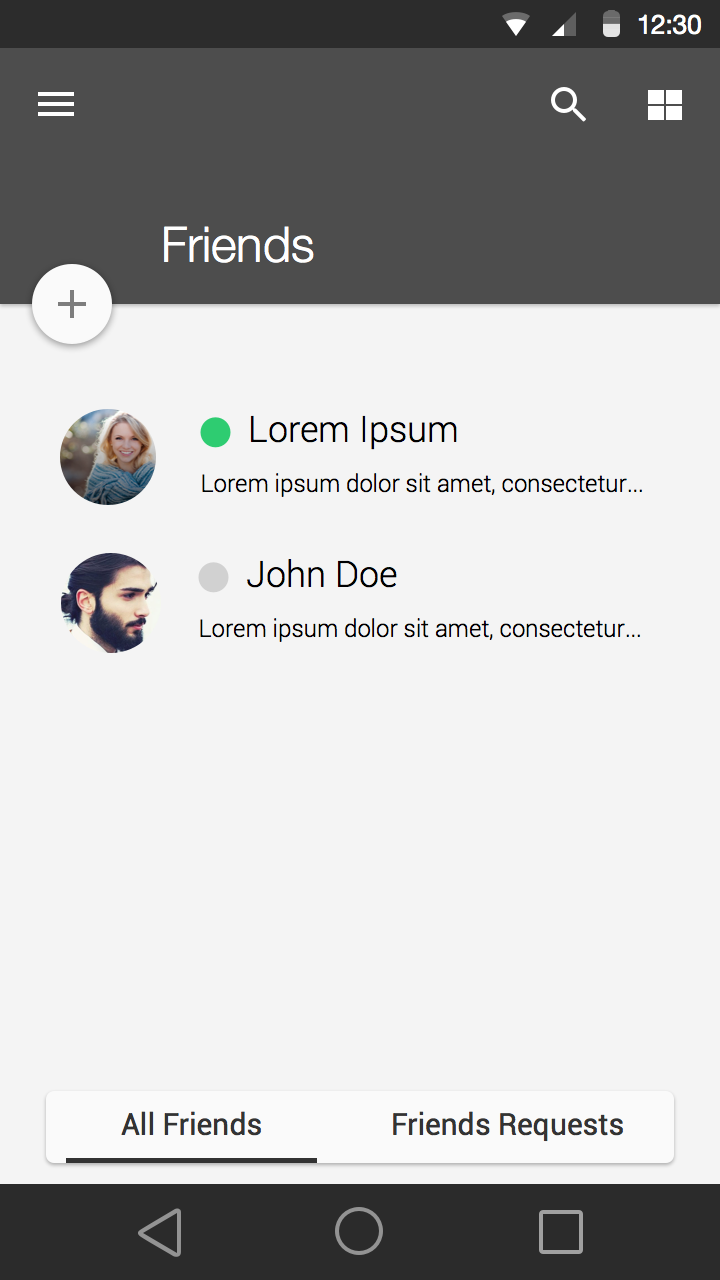
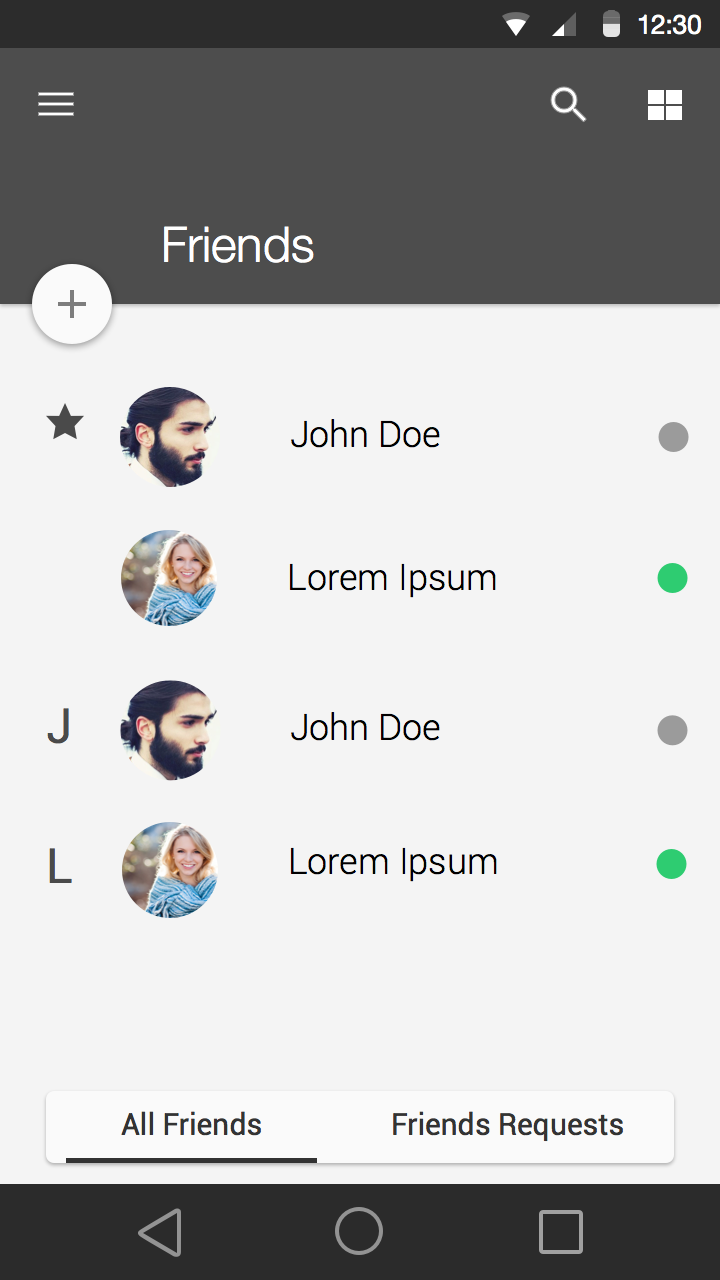
Replaced the friends painel and added more painels

diff --git a/doc/storyboard/indexSwipeRight.html b/doc/storyboard/indexSwipeRight.html
@@ -10,19 +10,18 @@
 			<center>
 				<div>
 					<div id="center">
-						<img id="centerIMG"src="img/Group_messaging_Settings.png">
-						<a href="index.html"><div class="highlight" style="position:absolute;top: 669px;left: 74px;width: 30px;height: 30px;"></div></a>
-						<a href="index.html"><div class="highlight" style="position:absolute;top: 40px;left: 17px;width: 30px;height: 30px;"></div></a>
-						<a href="GroupMessageSettingsPrompt.html"><div class="highlight" style="position:absolute;top: 75px;left: 247px;width: 100px;height: 30px;"></div></a>
+						<img id="centerIMG"src="img/Inbox Swipe Right.png">
+						<a href="indexDrawer.html"><div class="highlight" style="position:absolute;top: 40px;left: 17px;width: 30px;height: 30px;"></div></a>
+						<a href="Message.html"><div class="highlight" style="position:absolute;top: 176px;left: 0px;width: 400px;height: 80px;"></div></a>
+						<a href="indexSettings.html"><div class="highlight" style="position:absolute;top: 40px;left: 358px;width: 30px;height: 30px;"></div></a>
+						<a href="newMessage.html"><div class="highlight" style="position:absolute;top: 573px;left: 317px;width: 66px;height: 68px;"></div></a>
 
 					</div>
 					<div id="text"><h1>Tox Android Application Mockup</h1></div>
-					<a href="MessageWritting.html" style="color:blue;">Friend Writting!</a>
+					<a href="Call.html" style="color:blue;">Get a Call!</a>
 					<input id="checkbox" type="checkbox"  checked>Highlight Touch Spots<br>
-
 				</div>
 			</center>
-			
 		</div>
 	</body>
 	<script type="text/javascript">

diff --git a/doc/storyboard/indexSwipeLeft.html b/doc/storyboard/indexSwipeLeft.html
@@ -10,19 +10,18 @@
 			<center>
 				<div>
 					<div id="center">
-						<img id="centerIMG"src="img/Group_messaging_Settings.png">
-						<a href="index.html"><div class="highlight" style="position:absolute;top: 669px;left: 74px;width: 30px;height: 30px;"></div></a>
-						<a href="index.html"><div class="highlight" style="position:absolute;top: 40px;left: 17px;width: 30px;height: 30px;"></div></a>
-						<a href="GroupMessageSettingsPrompt.html"><div class="highlight" style="position:absolute;top: 75px;left: 247px;width: 100px;height: 30px;"></div></a>
+						<img id="centerIMG"src="img/Inbox Swipe Left.png">
+						<a href="indexDrawer.html"><div class="highlight" style="position:absolute;top: 40px;left: 17px;width: 30px;height: 30px;"></div></a>
+						<a href="Message.html"><div class="highlight" style="position:absolute;top: 176px;left: 0px;width: 400px;height: 80px;"></div></a>
+						<a href="indexSettings.html"><div class="highlight" style="position:absolute;top: 40px;left: 358px;width: 30px;height: 30px;"></div></a>
+						<a href="newMessage.html"><div class="highlight" style="position:absolute;top: 573px;left: 317px;width: 66px;height: 68px;"></div></a>
 
 					</div>
 					<div id="text"><h1>Tox Android Application Mockup</h1></div>
-					<a href="MessageWritting.html" style="color:blue;">Friend Writting!</a>
+					<a href="Call.html" style="color:blue;">Get a Call!</a>
 					<input id="checkbox" type="checkbox"  checked>Highlight Touch Spots<br>
-
 				</div>
 			</center>
-			
 		</div>
 	</body>
 	<script type="text/javascript">

diff --git a/doc/storyboard/FriendsRequest.html b/doc/storyboard/FriendsRequest.html
@@ -10,19 +10,16 @@
 			<center>
 				<div>
 					<div id="center">
-						<img id="centerIMG"src="img/Group_messaging_Settings.png">
-						<a href="index.html"><div class="highlight" style="position:absolute;top: 669px;left: 74px;width: 30px;height: 30px;"></div></a>
-						<a href="index.html"><div class="highlight" style="position:absolute;top: 40px;left: 17px;width: 30px;height: 30px;"></div></a>
-						<a href="GroupMessageSettingsPrompt.html"><div class="highlight" style="position:absolute;top: 75px;left: 247px;width: 100px;height: 30px;"></div></a>
+						<img id="centerIMG"src="img/Friends Request.png">
+						<a href="indexDrawer.html"><div class="highlight" style="position:absolute;top: 40px;left: 17px;width: 30px;height: 30px;"></div></a>
+						<a href="Friends.html"><div class="highlight" style="position:absolute; top: 595px;left: 17px;width: 170px;height: 70px;"></div></a>
 
 					</div>
 					<div id="text"><h1>Tox Android Application Mockup</h1></div>
-					<a href="MessageWritting.html" style="color:blue;">Friend Writting!</a>
 					<input id="checkbox" type="checkbox"  checked>Highlight Touch Spots<br>
 
 				</div>
-			</center>
-			
+			</center>			
 		</div>
 	</body>
 	<script type="text/javascript">

diff --git a/doc/storyboard/newMessageAdded.html b/doc/storyboard/newMessageAdded.html
@@ -10,10 +10,11 @@
 			<center>
 				<div>
 					<div id="center">
-						<img id="centerIMG"src="img/Group_messaging_Settings.png">
+						<img id="centerIMG"src="img/Inbox New TalkAdded.png">
 						<a href="index.html"><div class="highlight" style="position:absolute;top: 669px;left: 74px;width: 30px;height: 30px;"></div></a>
 						<a href="index.html"><div class="highlight" style="position:absolute;top: 40px;left: 17px;width: 30px;height: 30px;"></div></a>
-						<a href="GroupMessageSettingsPrompt.html"><div class="highlight" style="position:absolute;top: 75px;left: 247px;width: 100px;height: 30px;"></div></a>
+						<a href="newMessageSearch.html"><div class="highlight" style="position:absolute; top: 90px;left: 17px;width: 370px;height: 50px;"></div></a>
+						<a href="GroupMessage.html"><div class="highlight" style="position:absolute;top: 573px;left: 317px;width: 66px;height: 68px;"></div></a>
 
 					</div>
 					<div id="text"><h1>Tox Android Application Mockup</h1></div>

diff --git a/doc/storyboard/ProfileScrollPrompt.html b/doc/storyboard/ProfileScrollPrompt.html
@@ -10,16 +10,11 @@
 			<center>
 				<div>
 					<div id="center">
-						<img id="centerIMG"src="img/Group_messaging_Settings.png">
-						<a href="index.html"><div class="highlight" style="position:absolute;top: 669px;left: 74px;width: 30px;height: 30px;"></div></a>
-						<a href="index.html"><div class="highlight" style="position:absolute;top: 40px;left: 17px;width: 30px;height: 30px;"></div></a>
-						<a href="GroupMessageSettingsPrompt.html"><div class="highlight" style="position:absolute;top: 75px;left: 247px;width: 100px;height: 30px;"></div></a>
-
+						<img id="centerIMG"src="img/User_profile_scrollPrompt.png">
 					</div>
 					<div id="text"><h1>Tox Android Application Mockup</h1></div>
-					<a href="MessageWritting.html" style="color:blue;">Friend Writting!</a>
+					<a href="Profile.html" style="color:blue;">Scroll Up!</a>
 					<input id="checkbox" type="checkbox"  checked>Highlight Touch Spots<br>
-
 				</div>
 			</center>
 			

diff --git a/doc/storyboard/newMessageSearch.html b/doc/storyboard/newMessageSearch.html
@@ -10,11 +10,10 @@
 			<center>
 				<div>
 					<div id="center">
-						<img id="centerIMG"src="img/Group_messaging_Settings.png">
+						<img id="centerIMG"src="img/Inbox New TalkSearch.png">
 						<a href="index.html"><div class="highlight" style="position:absolute;top: 669px;left: 74px;width: 30px;height: 30px;"></div></a>
 						<a href="index.html"><div class="highlight" style="position:absolute;top: 40px;left: 17px;width: 30px;height: 30px;"></div></a>
-						<a href="GroupMessageSettingsPrompt.html"><div class="highlight" style="position:absolute;top: 75px;left: 247px;width: 100px;height: 30px;"></div></a>
-
+						<a href="newMessageAdded.html"><div class="highlight" style="position:absolute; top: 160px;left: 17px;width: 370px;height: 70px;"></div></a>
 					</div>
 					<div id="text"><h1>Tox Android Application Mockup</h1></div>
 					<a href="MessageWritting.html" style="color:blue;">Friend Writting!</a>

diff --git a/doc/storyboard/Friends.html b/doc/storyboard/Friends.html
@@ -11,7 +11,9 @@
 				<div>
 					<div id="center">
 						<img id="centerIMG"src="img/Friends.png">
-						<a href="ContactDetails.html"><div class="highlight" style="position:absolute; top: 220px;left: 17px;width: 370px;height: 70px;"></div></a>
+						<a href="ContactDetails.html"><div class="highlight" style="position:absolute; top: 290px;left: 17px;width: 370px;height: 70px;"></div></a>
+						<a href="ContactDetails.html"><div class="highlight" style="position:absolute; top: 445px;left: 17px;width: 370px;height: 70px;"></div></a>
+						<a href="FriendsRequest.html"><div class="highlight" style="position:absolute; top: 595px;left: 197px;width: 170px;height: 70px;"></div></a>
 						<a href="indexDrawer.html"><div class="highlight" style="position:absolute;top: 40px;left: 17px;width: 30px;height: 30px;"></div></a>
 					</div>
 					<div id="text"><h1>Tox Android Application Mockup</h1></div>

diff --git a/doc/storyboard/newMessage.html b/doc/storyboard/newMessage.html
@@ -13,8 +13,7 @@
 						<img id="centerIMG"src="img/Inbox New Talk.png">
 						<a href="index.html"><div class="highlight" style="position:absolute;top: 669px;left: 74px;width: 30px;height: 30px;"></div></a>
 						<a href="index.html"><div class="highlight" style="position:absolute;top: 40px;left: 17px;width: 30px;height: 30px;"></div></a>
-						<a href="GroupMessage.html"><div class="highlight" style="position:absolute;top: 573px;left: 317px;width: 66px;height: 68px;"></div></a>
-
+						<a href="newMessageSearch.html"><div class="highlight" style="position:absolute; top: 90px;left: 17px;width: 370px;height: 50px;"></div></a>
 					</div>
 					<div id="text"><h1>Tox Android Application Mockup</h1></div>
 					<a href="MessageWritting.html" style="color:blue;">Friend Writting!</a>

diff --git a/doc/storyboard/GroupMessageSettingsPrompt.html b/doc/storyboard/GroupMessageSettingsPrompt.html
@@ -10,11 +10,8 @@
 			<center>
 				<div>
 					<div id="center">
-						<img id="centerIMG"src="img/Group_messaging_Settings.png">
+						<img id="centerIMG"src="img/Group_messagingPrompt.png">
 						<a href="index.html"><div class="highlight" style="position:absolute;top: 669px;left: 74px;width: 30px;height: 30px;"></div></a>
-						<a href="index.html"><div class="highlight" style="position:absolute;top: 40px;left: 17px;width: 30px;height: 30px;"></div></a>
-						<a href="GroupMessageSettingsPrompt.html"><div class="highlight" style="position:absolute;top: 75px;left: 247px;width: 100px;height: 30px;"></div></a>
-
 					</div>
 					<div id="text"><h1>Tox Android Application Mockup</h1></div>
 					<a href="MessageWritting.html" style="color:blue;">Friend Writting!</a>

diff --git a/doc/storyboard/ProfileScroll.html b/doc/storyboard/ProfileScroll.html
@@ -12,6 +12,7 @@
 					<div id="center">
 						<img id="centerIMG"src="img/User_profile_scroll.png">
 						<a href="Friends.html"><div class="highlight" style="position:absolute;top: 669px;left: 74px;width: 30px;height: 30px;"></div></a>
+						<a href="ProfileScrollPrompt.html"><div class="highlight" style="position:absolute; top: 390px;left: 17px;width: 370px;height: 70px;"></div></a>
 					</div>
 					<div id="text"><h1>Tox Android Application Mockup</h1></div>
 					<a href="Profile.html" style="color:blue;">Scroll Up!</a>

diff --git a/doc/storyboard/index.html b/doc/storyboard/index.html
@@ -19,6 +19,9 @@
 					</div>
 					<div id="text"><h1>Tox Android Application Mockup</h1></div>
 					<a href="Call.html" style="color:blue;">Get a Call!</a>
+					<a href="indexSwipeLeft.html" style="color:blue;">Swipe Left!</a>
+					<a href="indexSwipeRight.html" style="color:blue;">Swipe Right!</a>
+
 					<input id="checkbox" type="checkbox"  checked>Highlight Touch Spots<br>
 				</div>
 			</center>
